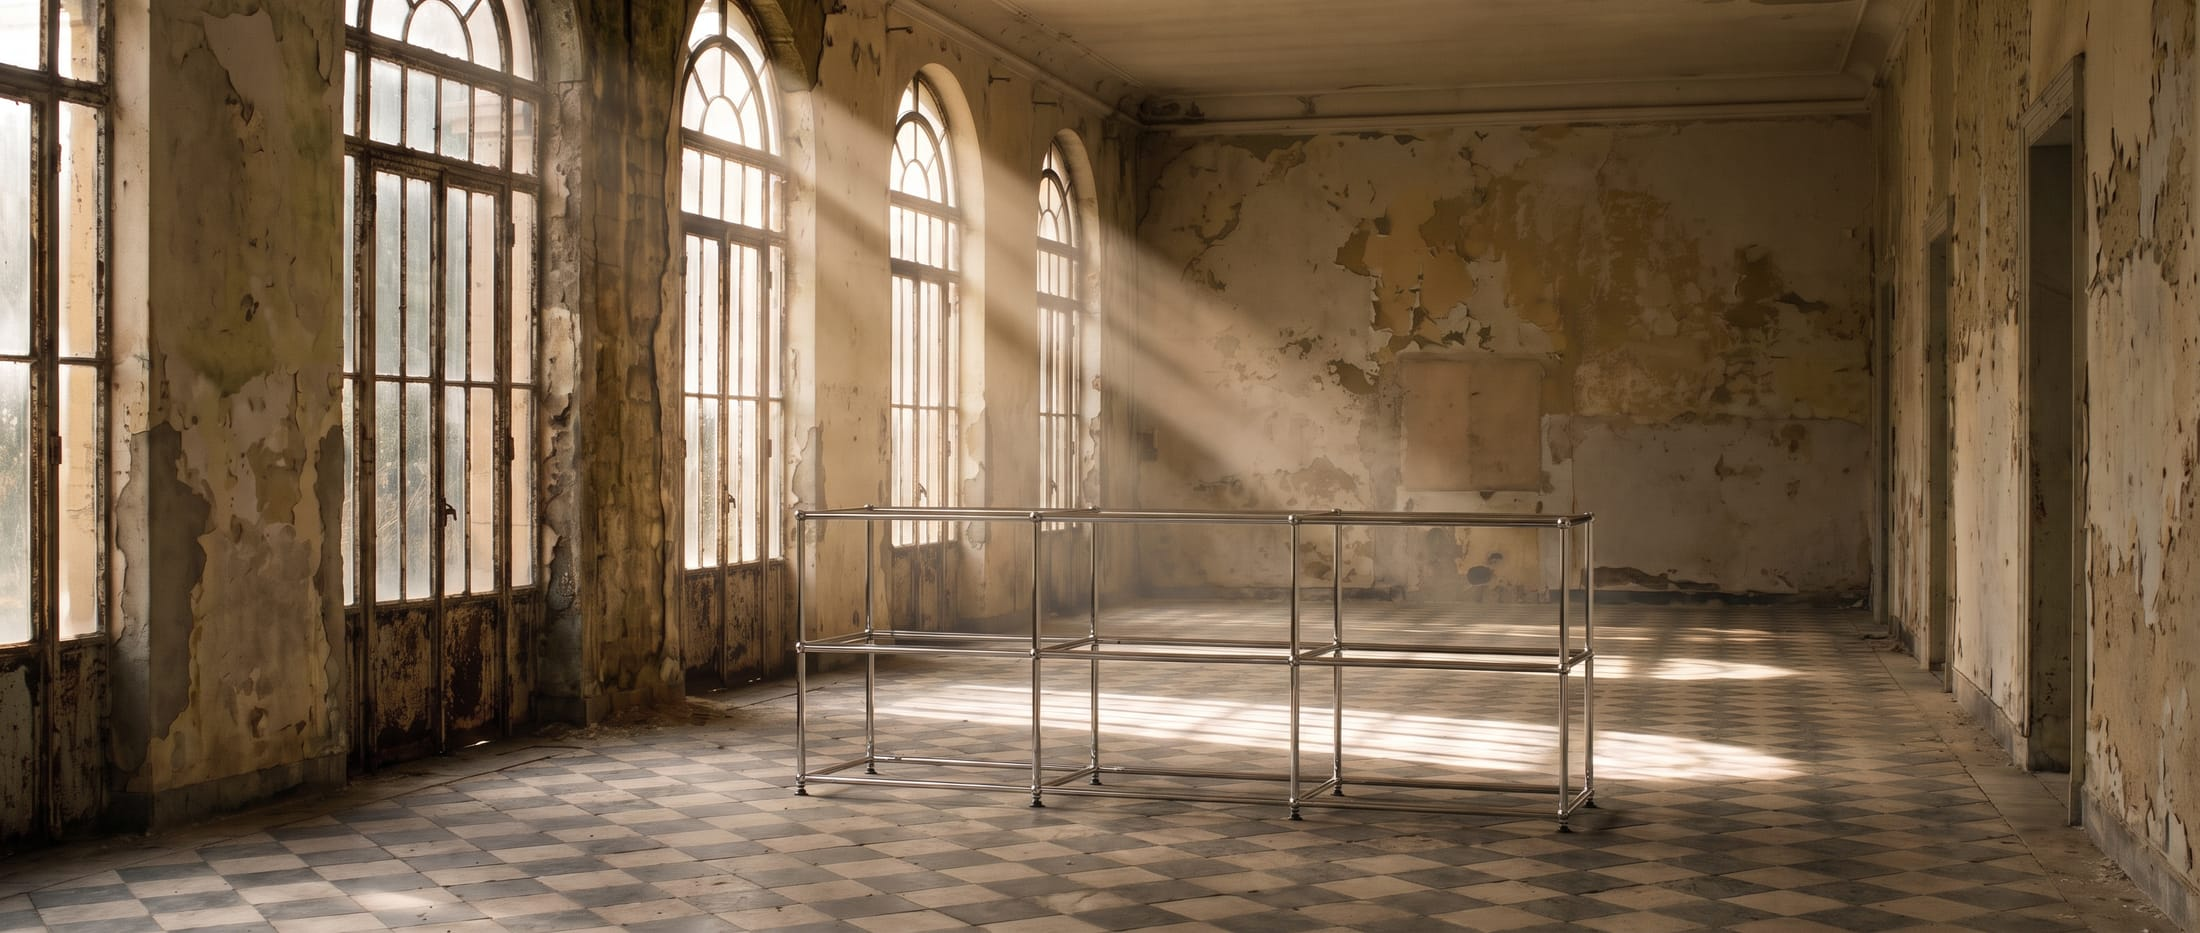
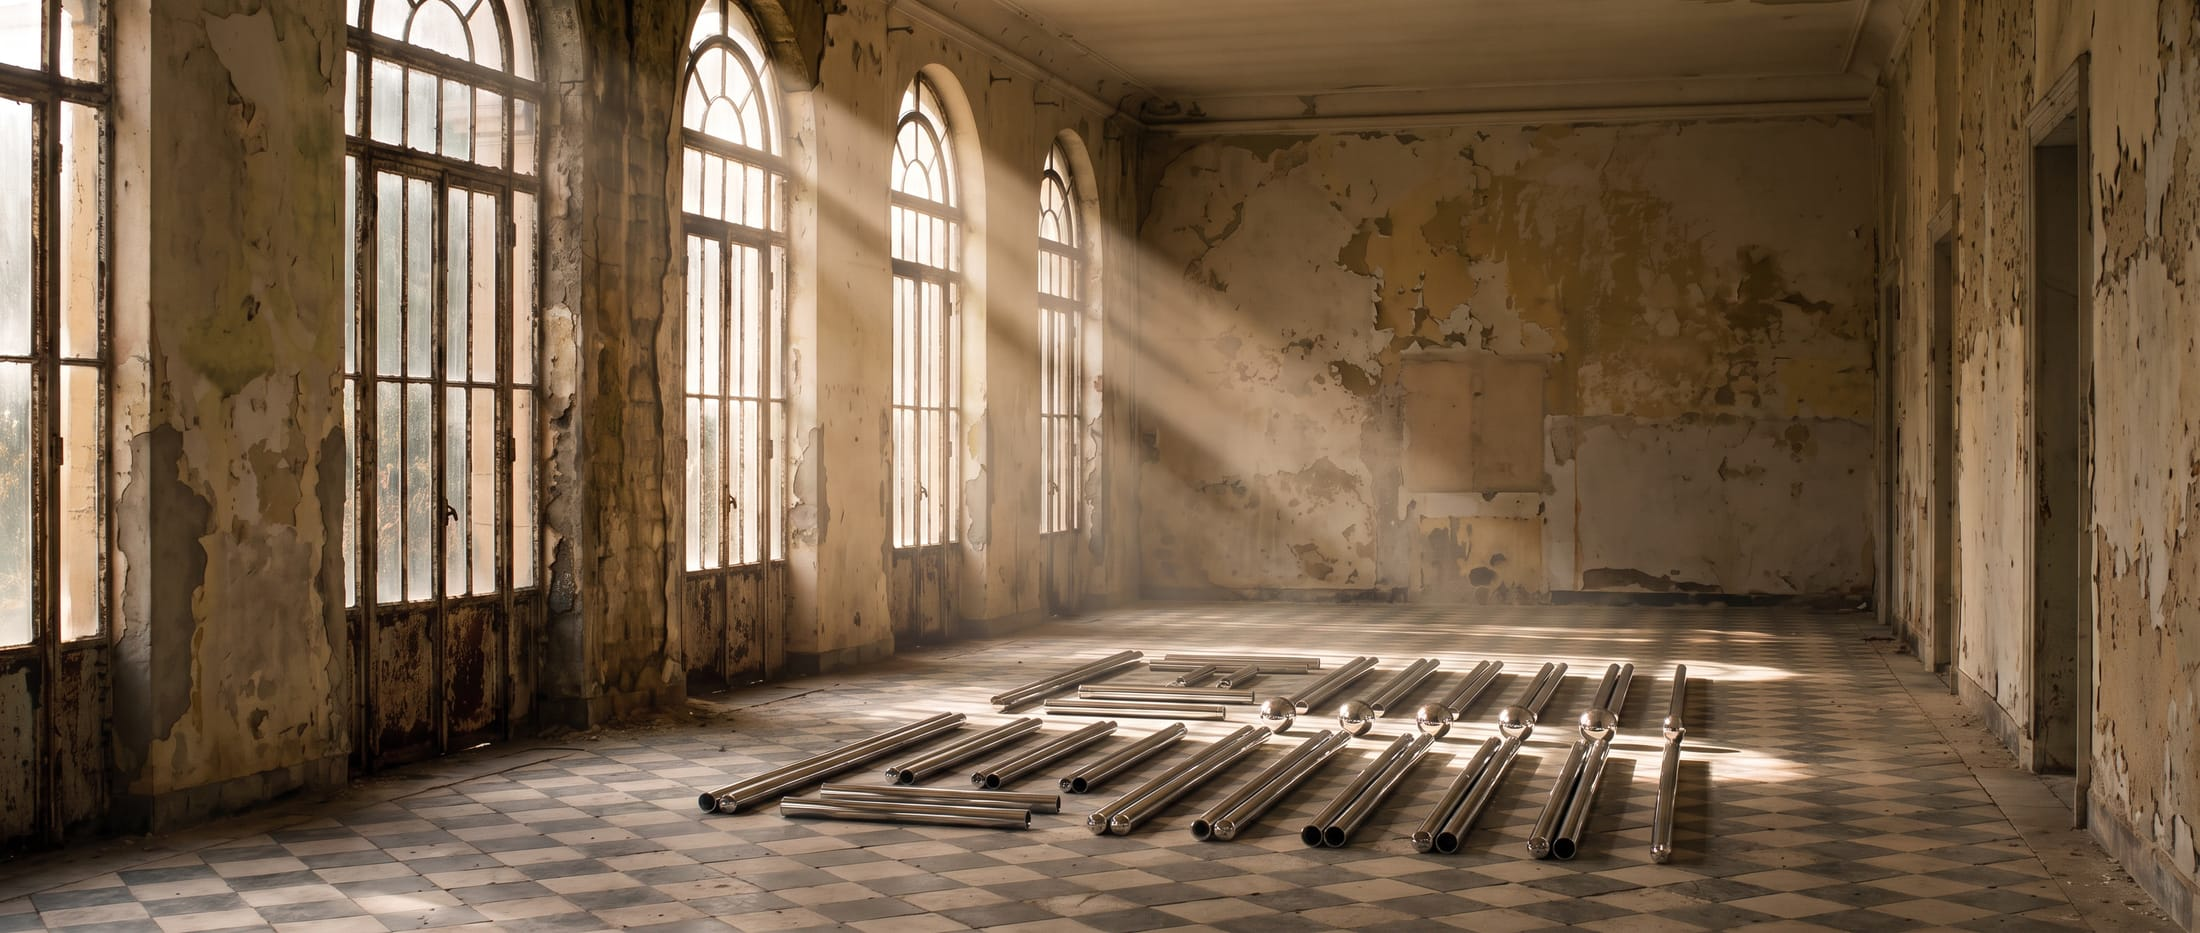
Scroll-Sequenz: 7 Frames (3 neue Zwischenframes), 15vh je Frame
Fluessigeres Stop-Motion: Einzelteile am Boden, erstes Tablar und
Fast-fertig-Frame ergaenzt; Scrub-Weg auf 15vh je Frame verkuerzt.

diff --git a/components/ScrollSequence.tsx b/components/ScrollSequence.tsx
@@ -16,16 +16,31 @@ const PHASES: Phase[] = [
   },
   {
     image: "/media/seq-2.jpg",
+    label: "Die Einzelteile",
+    text: "Rohre, Kugeln, Tablare — jedes Original beginnt vollständig zerlegt.",
+  },
+  {
+    image: "/media/seq-3.jpg",
     label: "Das Gestell",
     text: "Verchromte Rohre und Kugeln, poliert oder erneuert — das Skelett jedes USM Haller Möbelstücks.",
   },
   {
-    image: "/media/seq-3.jpg",
+    image: "/media/seq-4.jpg",
     label: "Die Beschichtung",
     text: "Frisch pulverbeschichtete Tablare in Ihrer Wunschfarbe finden ihren Platz.",
   },
   {
-    image: "/media/seq-4.jpg",
+    image: "/media/seq-5.jpg",
+    label: "Die Beschichtung",
+    text: "Tablar für Tablar — die untere Reihe sitzt.",
+  },
+  {
+    image: "/media/seq-6.jpg",
+    label: "Die Montage",
+    text: "Die letzten Fächer wachsen zusammen, jede Verbindung wird geprüft.",
+  },
+  {
+    image: "/media/seq-7.jpg",
     label: "Das Original",
     text: "Fertig montiert und geprüft — bereit für sein zweites Leben.",
   },
@@ -78,7 +93,7 @@ export default function ScrollSequence() {
     <div
       ref={wrapRef}
       className="seq-wrap"
-      style={reduced ? undefined : { height: `${100 + PHASES.length * 30}vh` }}
+      style={reduced ? undefined : { height: `${100 + PHASES.length * 15}vh` }}
       aria-label="Die Aufbereitung eines USM Haller Möbelstücks, Schritt für Schritt"
     >
       <div className={reduced ? "seq-sticky seq-static" : "seq-sticky"}>
